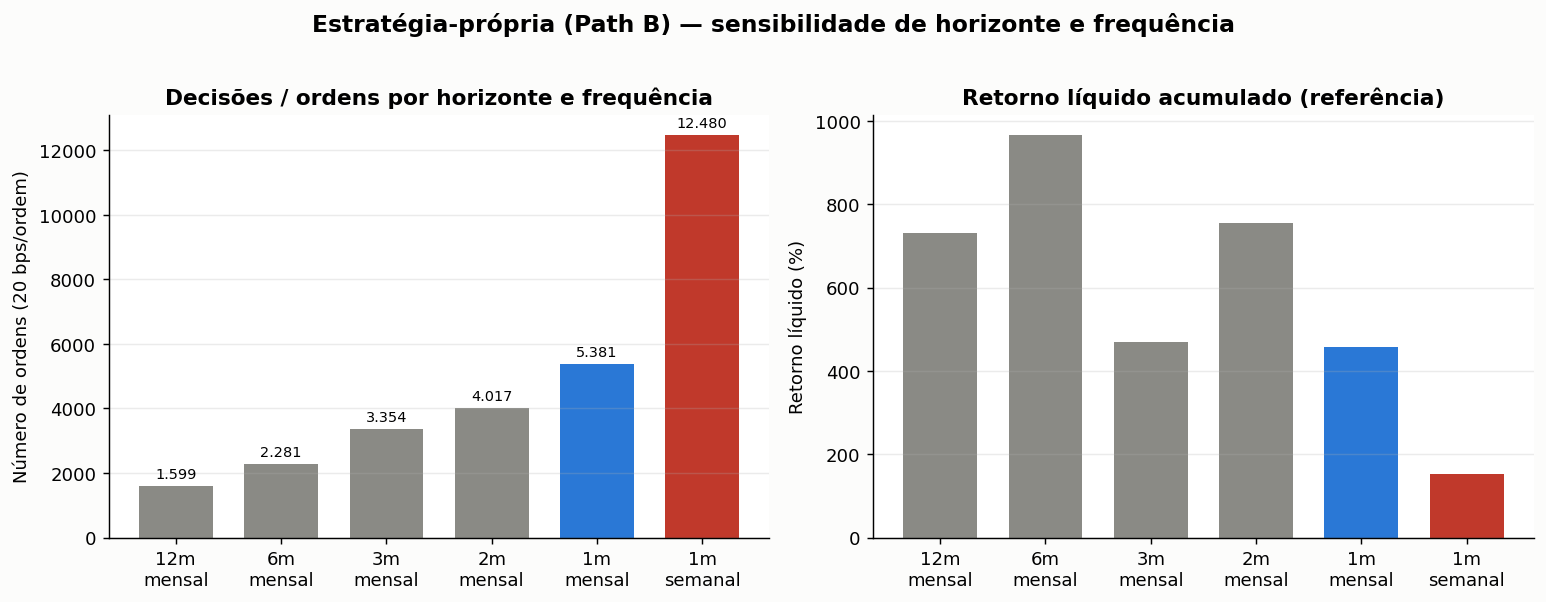
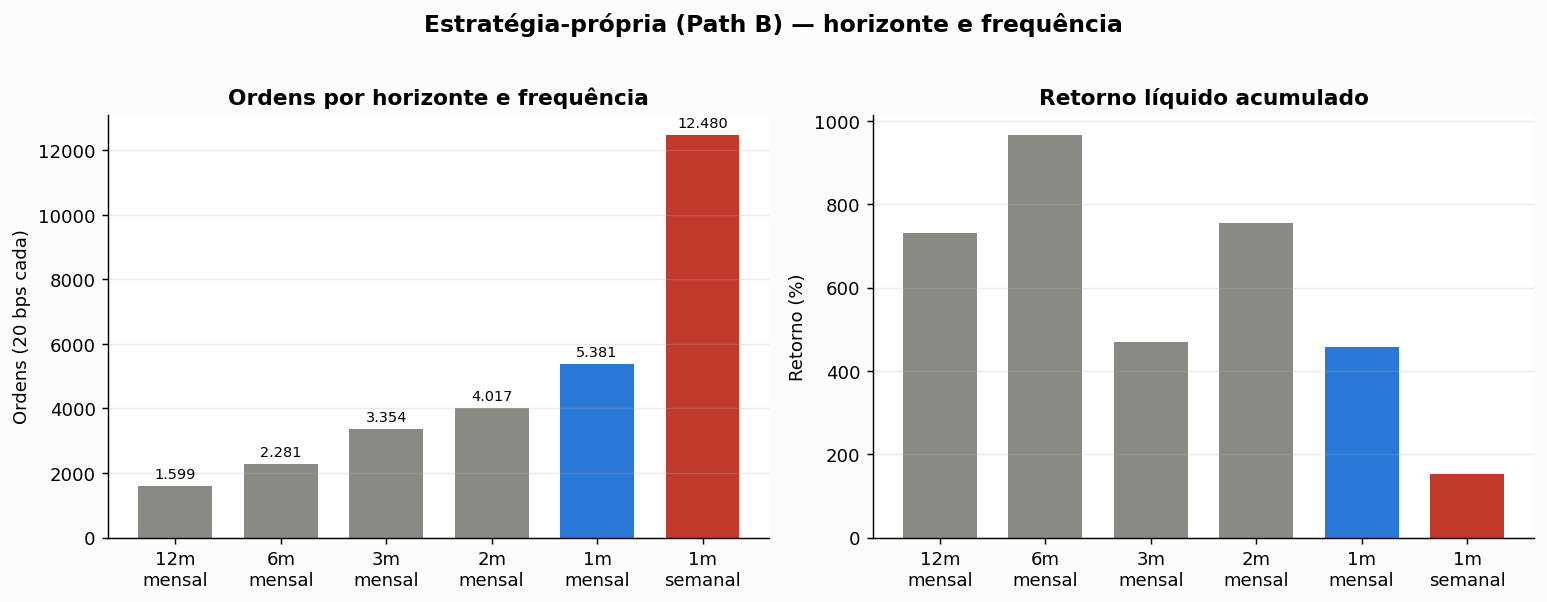
Gráficos da própria gerados por script; publica contagem de sinais e auditoria de volume.
estrategia_propria_graf.py grava patrimônio/horizontes; A30 mostra 0 slots secos — volume não corta sinais; próximo passo é peso∝liquidez na cesta.

diff --git a/src/estrategia_propria_graf.py b/src/estrategia_propria_graf.py
@@ -1,0 +1,89 @@
+"""
+Estratégia-própria — gráficos (mesmo estilo do restante do repo).
+
+Gera:
+  figures/horizontes_path_b.png
+  figures/estrategia_propria.png   (patrimônio + drawdown da série publicada)
+
+  python3 estrategia_propria_graf.py
+"""
+import sys
+from pathlib import Path
+
+import matplotlib.pyplot as plt
+import pandas as pd
+
+_SRC = Path(__file__).resolve().parent
+if str(_SRC) not in sys.path:
+    sys.path.insert(0, str(_SRC))
+from _paths import DADOS, FIGS
+
+FIGS.mkdir(exist_ok=True)
+
+# --- 1) Sensibilidade horizonte × frequência ---
+h = pd.read_csv(DADOS / "comparativo_horizontes_filme.csv")
+ordem = ["E51", "E50", "E49", "E52", "E53", "E54"]
+h = h.set_index("experimento").loc[ordem].reset_index()
+labels = [f"{r.horizonte}\n{r.frequencia}" for _, r in h.iterrows()]
+cores = ["#8a8a85"] * 4 + ["#2a78d6", "#c0392b"]
+
+fig, axes = plt.subplots(1, 2, figsize=(12, 4.5), facecolor="#fcfcfb")
+ax = axes[0]
+bars = ax.bar(labels, h["n_ordens"], color=cores, width=0.7)
+ax.set_title("Ordens por horizonte e frequência", fontsize=12, weight="bold")
+ax.set_ylabel("Ordens (20 bps cada)")
+ax.spines[["top", "right"]].set_visible(False)
+ax.grid(axis="y", alpha=0.25)
+for b, v in zip(bars, h["n_ordens"]):
+    ax.text(b.get_x() + b.get_width() / 2, v + 150, f"{v:,}".replace(",", "."),
+            ha="center", va="bottom", fontsize=8)
+
+ax2 = axes[1]
+ax2.bar(labels, h["retorno_liquido"] * 100, color=cores, width=0.7)
+ax2.set_title("Retorno líquido acumulado", fontsize=12, weight="bold")
+ax2.set_ylabel("Retorno (%)")
+ax2.spines[["top", "right"]].set_visible(False)
+ax2.grid(axis="y", alpha=0.25)
+fig.suptitle("Estratégia-própria (Path B) — horizonte e frequência", fontsize=13, weight="bold", y=1.02)
+fig.tight_layout()
+fig.savefig(FIGS / "horizontes_path_b.png", dpi=130, bbox_inches="tight", facecolor="#fcfcfb")
+print(f"fig {FIGS / 'horizontes_path_b.png'}")
+
+# --- 2) Patrimônio + drawdown da série ---
+ep = pd.read_csv(DADOS / "estrategia_propria_diario.csv", parse_dates=["dia"]).set_index("dia")
+ret = ep["retorno_liquido"].dropna()
+eq = (1 + ret).cumprod()
+dd = eq / eq.cummax() - 1
+if not (0.9 <= float(eq.iloc[0]) <= 1.1):
+    raise AssertionError(f"equity deve começar ~1; veio {eq.iloc[0]:.3f}")
+
+fig2, (ax_eq, ax_dd) = plt.subplots(
+    2, 1, figsize=(12, 7), sharex=True, height_ratios=[2, 1], facecolor="#fcfcfb"
+)
+fig2.suptitle(
+    "Estratégia-própria — Path B · mom 1m · semanal @20 bps",
+    fontsize=13, weight="bold",
+)
+ax_eq.plot(eq.index, eq.values, color="#c0392b", lw=2, label="estratégia-própria")
+ax_eq.set_yscale("log")
+ax_eq.set_ylabel("patrimônio (log, base 1)")
+ax_eq.legend(loc="upper left", frameon=False)
+ax_eq.grid(alpha=0.25)
+ax_eq.spines[["top", "right"]].set_visible(False)
+ax_eq.annotate(
+    f" {(eq.iloc[-1]-1)*100:+,.0f}%".replace(",", "."),
+    xy=(eq.index[-1], eq.iloc[-1]), color="#c0392b", fontsize=11, weight="bold", va="center",
+)
+ax_dd.plot(dd.index, dd.values * 100, color="#c0392b", lw=1.4)
+ax_dd.set_ylabel("drawdown (%)")
+ax_dd.grid(alpha=0.25)
+ax_dd.spines[["top", "right"]].set_visible(False)
+fig2.tight_layout(rect=[0, 0, 1, 0.97])
+fig2.savefig(FIGS / "estrategia_propria.png", dpi=130, facecolor="#fcfcfb")
+print(f"fig {FIGS / 'estrategia_propria.png'}")
+print(
+    f"série {ret.index.min().date()}→{ret.index.max().date()} | "
+    f"ret={eq.iloc[-1]-1:+.2%} | "
+    f"Sharpe={ret.mean()/ret.std(ddof=1)*(252**0.5):.2f} | "
+    f"MaxDD={dd.min():.2%}"
+)

diff --git a/estrategia_propria_graf.py b/estrategia_propria_graf.py
@@ -1,0 +1,5 @@
+"""Atalho → src/estrategia_propria_graf.py"""
+from pathlib import Path
+import runpy
+runpy.run_path(str(Path(__file__).resolve().parent / "src" / "estrategia_propria_graf.py"),
+               run_name="__main__")

diff --git a/README.md b/README.md
@@ -34,9 +34,22 @@ Cross-section de momentum no Path B (145 ações com histórico contínuo na jan
 
 **Por que 1 mês e frequência semanal.** Testamos horizontes de 1 a 12 meses (e 2 meses) com a mesma carteira. Horizontes mais curtos geram **mais decisões** — material mais rico para validar o sinal e, depois, para técnicas de aprendizado sobre essas decisões. A versão semanal multiplica rebalances em relação à mensal no mesmo horizonte de 1 mês. Detalhe e pseudocódigo: [docs/pseudocodigo/base_amostra_e54.md](docs/pseudocodigo/base_amostra_e54.md) · visão rápida: [ESTRATEGIA_PROPRIA.md](ESTRATEGIA_PROPRIA.md).
 
+**Contagem de sinais (base publicada):**
+
+| Objeto | N |
+|---|---:|
+| Sinais de carteira (rebalances semanais) | **519** |
+| Decisões por nome (Top20+Bottom10 por sinal) | **15 570** |
+| Ordens de execução (compra/venda @20 bps) | **12 480** |
+| Exemplos rotulados (painel, com próximo sinal) | **15 522** |
+
+![Patrimônio estratégia-própria](figures/estrategia_propria.png)
+
 ![Horizontes Path B](figures/horizontes_path_b.png)
 
-**Painel de decisões (para aprendizado supervisionado).** Cada posição do Top20/Bottom10 em cada sinal semanal vira um exemplo rotulado: a perna superou o CDI até o próximo rebalance? Sim/não. São **15 522** exemplos (~50% positivos), com partição temporal train / test / holdout. Schema: [docs/pseudocodigo/schema_labels_e55.md](docs/pseudocodigo/schema_labels_e55.md). O modelo em cima desse painel é etapa seguinte (fora deste README).
+**Liquidez (auditoria de volume).** Nos 15 570 slots da base, trailing de 21 e 365 dias: **0** nomes sem volume/financeiro. Momentum e liquidez quase não correlacionam (Spearman ≈ 0). Corte por volume seco **não** se justifica; o próximo passo natural é **peso proporcional à liquidez dentro da cesta** (mesmos 30 nomes). Resumo: `dados/a30_volume_resumo.csv`.
+
+**Painel de decisões.** Cada posição do Top20/Bottom10 em cada sinal semanal vira um exemplo: a perna superou o CDI até o próximo rebalance? **15 522** exemplos (~50% positivos), partição temporal train / test / holdout. Schema: [docs/pseudocodigo/schema_labels_e55.md](docs/pseudocodigo/schema_labels_e55.md).
 
 ---
 
@@ -106,9 +119,10 @@ pip install -r requirements.txt
 python3 rotacao.py
 python3 dual_momentum.py
 python3 dual_momentum_mensal.py
-python3 comparativo.py
-python3 estrategia_propria_amostra.py
-python3 rotacao_graf.py
+python3 comparativo.py                 # figures/comparativo.png
+python3 estrategia_propria_graf.py     # figures/estrategia_propria.png + horizontes_path_b.png
+python3 estrategia_propria_amostra.py  # métricas + contagem de sinais
+python3 rotacao_graf.py                # figures/rotacao.png
 python3 src/sinais_comparados.py
 ```
 

diff --git a/docs/metodologia_estrategia_propria.md b/docs/metodologia_estrategia_propria.md
@@ -19,7 +19,8 @@ Números: `dados/comparativo_horizontes_filme.csv` e `dados/e55_schema_resumo.cs
 
 - Filtro ou peso por **volume** (há auditoria prévia de elegibilidade binária no short; não alterou o Bottom10 naquela amostra — desenho de posicionamento por liquidez continua pendente).
 - Combinação de vários horizontes no mesmo score (evitada para manter o sinal interpretável).
-- Modelo de metalabeling treinado neste repositório (etapa seguinte, com o mentor).
+- Modelo de metalabeling treinado neste repositório (etapa seguinte).
+- **Volume:** auditoria A30 nos 15 570 slots E54 → **0** secos em 21d/365d; Spearman mom×liquidez ≈ 0. Corte binário não se justifica; próximo passo = peso ∝ liquidez **dentro** da cesta (mesmo N de nomes).
 
 ## Universo
 